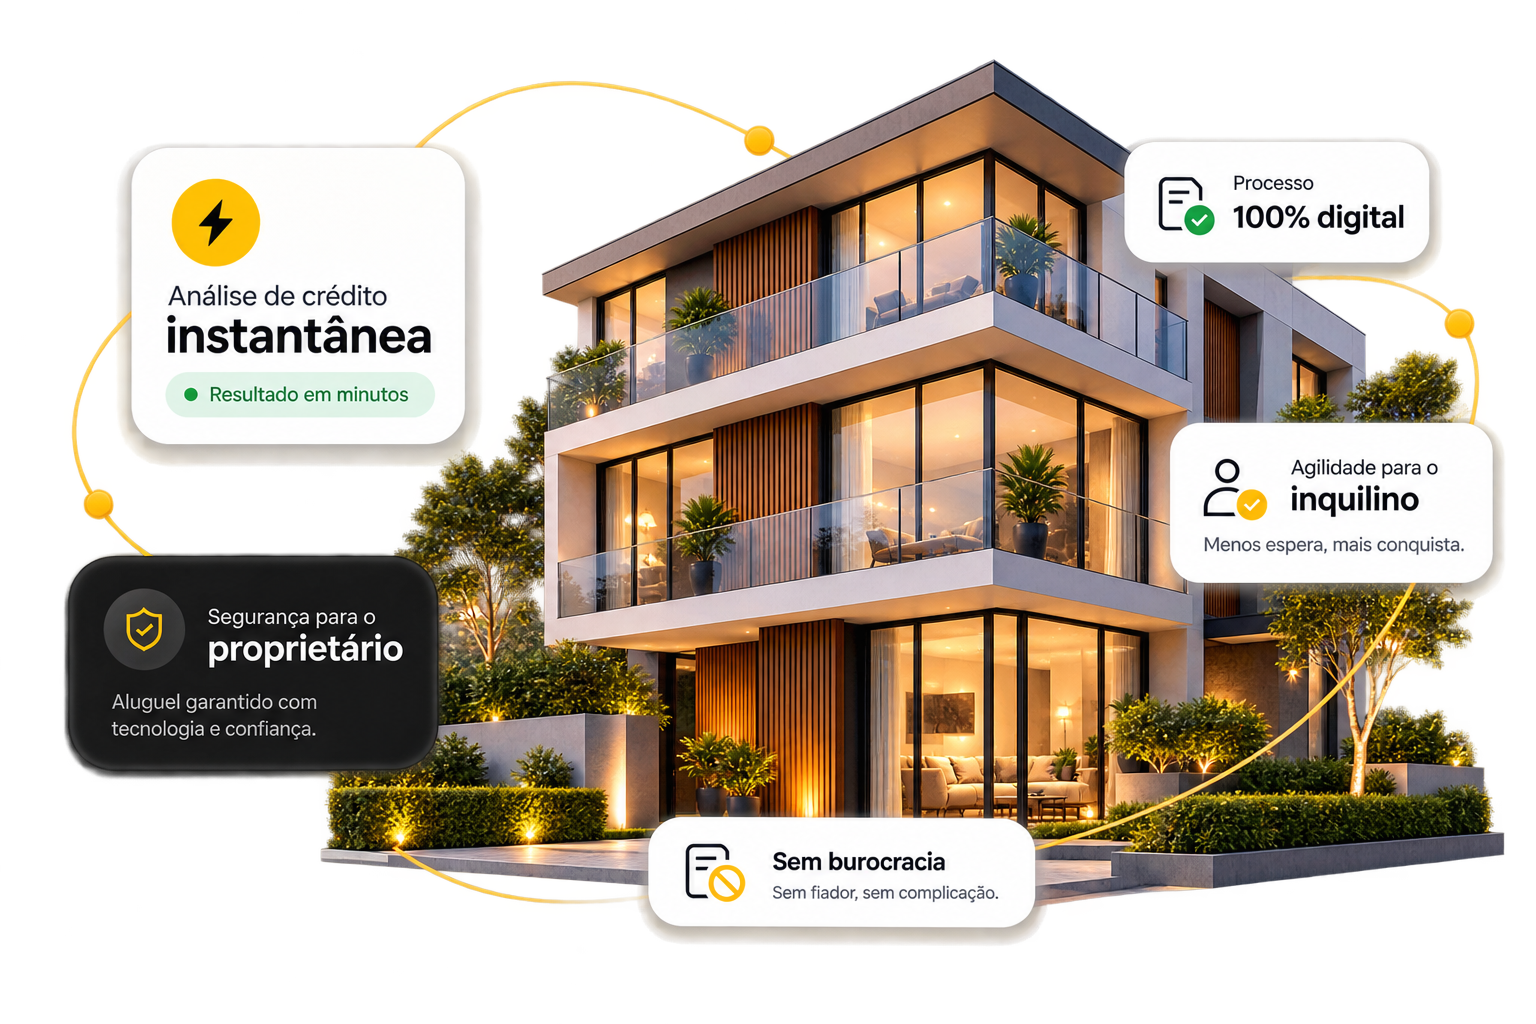
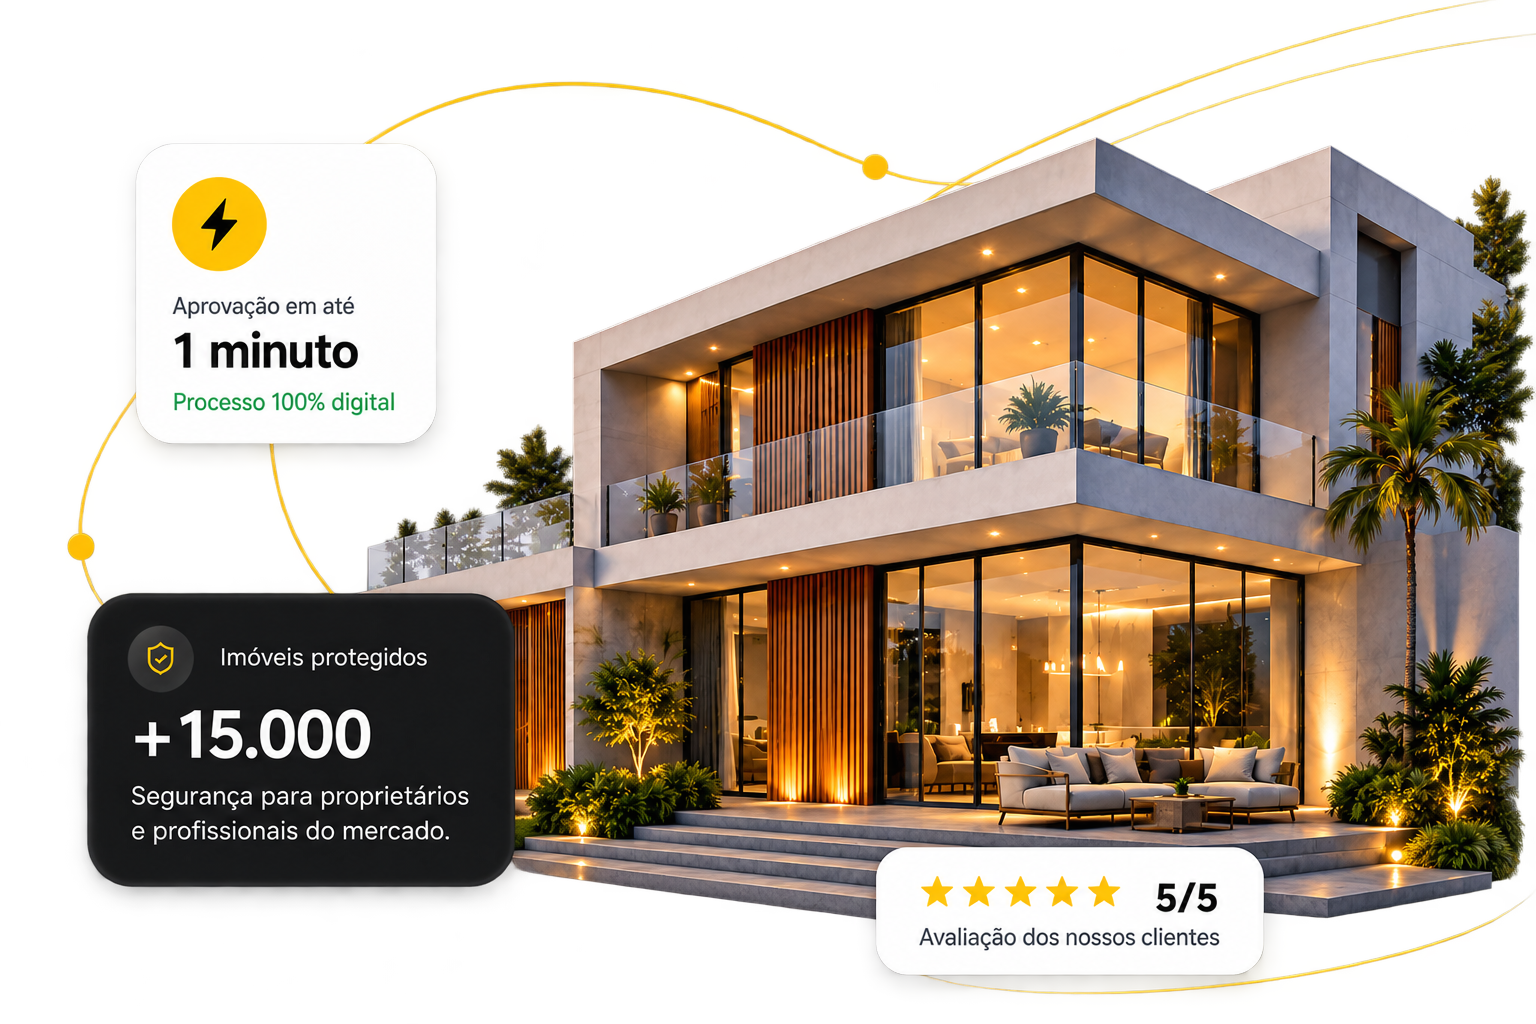
feat: amplia hero e atualiza imagem da home

diff --git a/src/components/landing/SectionsBasic.tsx b/src/components/landing/SectionsBasic.tsx
@@ -7,12 +7,12 @@ import { Button } from '@/components/ui/button';
 
 export const InstitutionalHero = () => (
   <section className="relative w-full overflow-hidden bg-white pt-28 sm:pt-32 lg:pt-[126px]">
-    <div className="relative z-10 mx-auto grid w-full max-w-[1536px] items-center gap-12 px-5 pb-8 sm:px-8 sm:pb-12 lg:min-h-[600px] lg:grid-cols-[minmax(0,0.49fr)_minmax(0,0.51fr)] lg:gap-8 lg:px-12 lg:pb-12 xl:grid-cols-[minmax(0,0.46fr)_minmax(0,0.54fr)] xl:gap-12 xl:px-16 2xl:px-20">
-      <div className="max-w-[600px] lg:py-10 xl:max-w-[620px]">
-        <span className="mb-6 inline-block rounded-full bg-white px-3 py-1 text-sm font-bold tracking-wider text-neutral-700 shadow-[0_8px_24px_rgba(17,17,17,0.06)] ring-1 ring-black/[0.04]">
+    <div className="relative z-10 mx-auto grid w-full max-w-none items-center gap-12 px-5 pb-10 sm:px-8 sm:pb-14 lg:min-h-[700px] lg:grid-cols-[minmax(0,0.45fr)_minmax(0,0.55fr)] lg:gap-6 lg:pb-16 lg:pl-12 lg:pr-0 xl:grid-cols-[minmax(0,0.44fr)_minmax(0,0.56fr)] xl:gap-8 xl:pl-16 2xl:pl-20">
+      <div className="max-w-[690px] lg:py-14 xl:max-w-[760px]">
+        <span className="mb-7 inline-block rounded-full bg-white px-4 py-2 text-sm font-bold tracking-wider text-neutral-700 shadow-[0_10px_30px_rgba(17,17,17,0.07)] ring-1 ring-black/[0.05] sm:text-base">
           SEGURO FIANÇA LOCATÍCIA
         </span>
-        <h1 className="mb-6 text-3xl font-bold leading-[1.08] tracking-tight text-neutral-900 sm:mb-7 sm:text-4xl md:text-[2.7rem] lg:text-[3.35rem] xl:text-[3.65rem]">
+        <h1 className="mb-8 text-[2.45rem] font-bold leading-[1.04] tracking-[-0.035em] text-neutral-900 sm:text-[2.85rem] md:text-[3.2rem] lg:text-[3.6rem] xl:text-[4.25rem] 2xl:text-[4.65rem]">
           Aluguel sem fiador, sem caução, com aprovação em até{' '}
           <span className="relative inline-block">
             <span className="text-[#FACC15]">1 minuto.</span>
@@ -27,39 +27,39 @@ export const InstitutionalHero = () => (
             </svg>
           </span>
         </h1>
-        <div className="mb-8 mt-2 flex flex-col gap-3 sm:mb-8 sm:flex-row sm:gap-4">
+        <div className="mb-10 mt-3 flex flex-col gap-3 sm:flex-row sm:gap-4">
           <Link to="/consultas/nova" className="w-full sm:w-auto">
-            <Button className="h-12 min-h-[44px] w-full rounded-lg bg-neutral-900 px-6 text-sm font-bold text-white shadow-xl shadow-neutral-100 transition-all hover:bg-neutral-800 active:scale-95 sm:w-auto sm:px-7 sm:text-base">
+            <Button className="h-14 min-h-[52px] w-full rounded-xl bg-neutral-900 px-7 text-base font-bold text-white shadow-xl shadow-neutral-100 transition-all hover:bg-neutral-800 active:scale-95 sm:w-auto sm:px-8 lg:h-[58px] lg:text-[1.05rem]">
               Solicitar análise gratuita
             </Button>
           </Link>
           <Link to="/cadastro" className="w-full sm:w-auto">
-            <Button variant="outline" className="h-12 min-h-[44px] w-full rounded-lg border-neutral-300 px-6 text-sm font-medium text-neutral-900 hover:bg-neutral-50 sm:w-auto sm:px-7 sm:text-base">
+            <Button variant="outline" className="h-14 min-h-[52px] w-full rounded-xl border-neutral-300 px-7 text-base font-medium text-neutral-900 shadow-sm hover:bg-neutral-50 sm:w-auto sm:px-8 lg:h-[58px] lg:text-[1.05rem]">
               Sou imobiliária ou corretor
             </Button>
           </Link>
         </div>
-        <div className="flex flex-wrap gap-4 sm:gap-8">
+        <div className="flex flex-wrap gap-x-7 gap-y-4 xl:flex-nowrap xl:gap-x-5">
           {['Sem fiador', 'Sem caução', 'Aprovação em 1 minuto', '100% digital'].map((item) => (
-            <div key={item} className="flex items-center gap-2 text-sm font-medium text-neutral-500">
-              <Check size={18} className="text-[#FACC15]" strokeWidth={2.5} />
+            <div key={item} className="flex items-center gap-2.5 text-[15px] font-medium text-neutral-500 sm:text-base">
+              <Check size={20} className="text-[#FACC15]" strokeWidth={2.5} />
               {item}
             </div>
           ))}
         </div>
       </div>
 
-      <div className="flex w-full items-center justify-center lg:justify-end">
-        <div className="flex aspect-[3/2] w-full shrink-0 items-center justify-center lg:justify-end">
+      <div className="flex w-full items-center justify-center lg:h-full lg:justify-end">
+        <div className="flex aspect-[3/2] w-full shrink-0 items-center justify-center lg:max-w-[1040px] lg:justify-end">
           <img
             src={noxAboutHome}
-            alt="Casa moderna com destaques sobre análise instantânea, processo digital, agilidade e segurança"
+            alt="Casa moderna da NOX Fiança com aprovação em 1 minuto, imóveis protegidos e avaliação máxima"
             width={1536}
             height={1024}
             loading="eager"
             decoding="async"
             fetchPriority="high"
-            className="h-full w-full max-w-[780px] object-contain object-center lg:object-right"
+            className="h-full w-full object-cover object-center lg:rounded-l-[32px] lg:object-right"
           />
         </div>
       </div>
